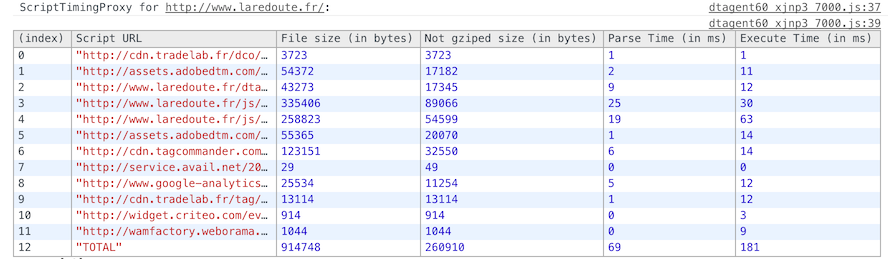
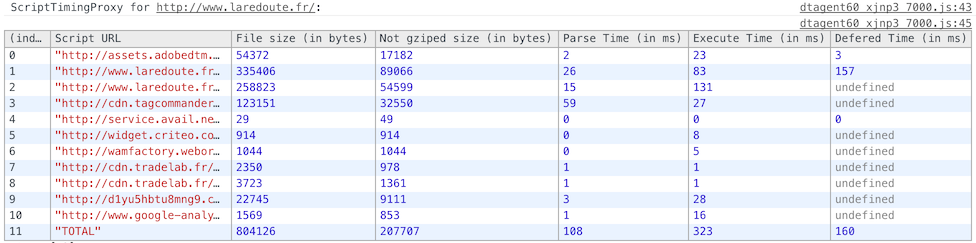
New timing: defered execution

diff --git a/lib/template.js b/lib/template.js
@@ -2,15 +2,22 @@ if (!window._STP) {
     window._STP = (function() {
         var scripts = [];
         var timer = null;
+        var originalSetTimeout = window.setTimeout;
+        var originalDocEvtListener = document.addEventListener;
+        var originalWinEvtListener = window.addEventListener;
         
         function resetTimer() {
             clearTimeout(timer || -1);
-            timer = setTimeout(render, 5000);
+            timer = setTimeout(render, 5000, '__STP');
         }
         
         function render() {
             var table = [];
-            var totalWeight = totalUnGzipWeight = totalParse = totalExec = 0;
+            var totalWeight = 0;
+            var totalUnGzipWeight = 0;
+            var totalParse = 0;
+            var totalExec =0;
+            var totalDefer = 0;
 
             scripts.forEach(function(script) {
                 table.push({
@@ -18,12 +25,14 @@ if (!window._STP) {
                     'File size (in bytes)': script.weight,
                     'Not gziped size (in bytes)': script.unGzipWeight,
                     'Parse Time (in ms)': (script.parsed - script.start),
-                    'Execute Time (in ms)': (script.end - script.parsed)
+                    'Execute Time (in ms)': (script.end - script.parsed),
+                    'Defered Time (in ms)': script.defered
                 });
                 totalWeight += script.weight;
                 totalUnGzipWeight += script.unGzipWeight;
                 totalParse += (script.parsed - script.start);
-                totalExec += (script.end - script.parsed);
+                totalExec += (script.end - script.parsed) || 0;
+                totalDefer += script.defered || 0;
             });
 
             table.push({
@@ -31,17 +40,75 @@ if (!window._STP) {
                 'File size (in bytes)': totalWeight,
                 'Not gziped size (in bytes)': totalUnGzipWeight,
                 'Parse Time (in ms)': totalParse,
-                'Execute Time (in ms)': totalExec
+                'Execute Time (in ms)': totalExec,
+                'Defered Time (in ms)': totalDefer
             });
 
             console.log('ScriptTimingProxy for ' + window.location.href + ':');
             if (console.table) {
                 console.table(table);
             } else {
-                console.log(table);
+                console.log(JSON.stringify(table, null, 4));
             }
 
             table = [];
+        }
+
+        function timeFn(fn, index) {
+            return function() {
+                var startTime = new Date().getTime();
+                fn();
+                var duration = new Date().getTime() - startTime;
+                
+                if (scripts[index]) {
+                    if (scripts[index].defered) {
+                        scripts[index].defered += duration;
+                    } else {
+                        scripts[index].defered = duration;
+                    }
+                }
+            };
+        }
+
+        // Spy defering functions
+        function spy(index) {
+
+            document.addEventListener = function(event, fn, useCapture) {
+                if (event === "DOMContentLoaded") {
+                    originalDocEvtListener.call(document, event, timeFn(fn, index), useCapture);
+                } else {
+                    originalDocEvtListener.call(document, event, fn, useCapture);
+                }
+            };
+
+            window.addEventListener = function(event, fn, useCapture) {
+                if (event === "load") {
+                    originalWinEvtListener.call(window, event, timeFn(fn, index), useCapture);
+                } else {
+                    originalWinEvtListener.call(window, event, fn, useCapture);
+                }
+            };
+
+            window.setTimeout = function(fn, time, otherArgs) {
+                if (otherArgs === '__STP') {
+                    // Block autoloop (happend once)
+                    return;
+                }
+
+                if (typeof fn == 'string' || fn instanceof String) {
+                    fn = function() { eval(fn); };
+                }
+
+                arguments[0] = timeFn(fn, index);
+
+                originalSetTimeout.apply(window, arguments);
+            };
+        }
+
+        function unSpy() {
+            window.setTimeout = originalSetTimeout;
+            document.addEventListener = originalDocEvtListener;
+            window.addEventListener = originalWinEvtListener;
         }
 
         return {
@@ -55,9 +122,11 @@ if (!window._STP) {
             },
             parsed: function(index) {
                 scripts[index].parsed = new Date().getTime();
+                spy(index);
             },
             end: function(index) {
                 scripts[index].end = new Date().getTime();
+                unSpy();
                 resetTimer();
             }
         };

diff --git a/lib/httpProxy.js b/lib/httpProxy.js
@@ -11,7 +11,6 @@ var HttpProxy = function() {
     var url             = require('url');
     var zlib            = require('zlib');
 
-    var host = 'localhost';
     var server = null;
     var proxy = null;
     var app = null;

diff --git a/README.md b/README.md
@@ -5,7 +5,7 @@ Mesure scripts parse and execution time with this simple browser proxy
 
 ## Why should you use ScriptTimingProxy ?
 
-You're a web developer and you probably wonder what's the impact of the scripts your load on your pages.
+You're a web developer and you probably wonder what's the impact of the scripts you load when the page loads.
 And it's hard to know. Even more if it's a weird minified third-party script!
 
 
@@ -13,7 +13,9 @@ And it's hard to know. Even more if it's a weird minified third-party script!
 
 1. The proxy intercepts incoming javascript files.
 2. The content of the script is injected into an eval() function, so we can measure the parse time (not exactly the same, but close).
-3. The execution time is measured too, and the results are sent to the console.
+3. The execution time is measured too.
+4. When the script defers some execution (setTimeout / domReay / page loaded), it is still measured!
+5. The results are sent to the console.
 
 It's totally inspired by a brilliant idea from Daniel Espeset (Etsy): [http://talks.desp.in/unpacking-the-black-box/](http://talks.desp.in/unpacking-the-black-box/)
 
